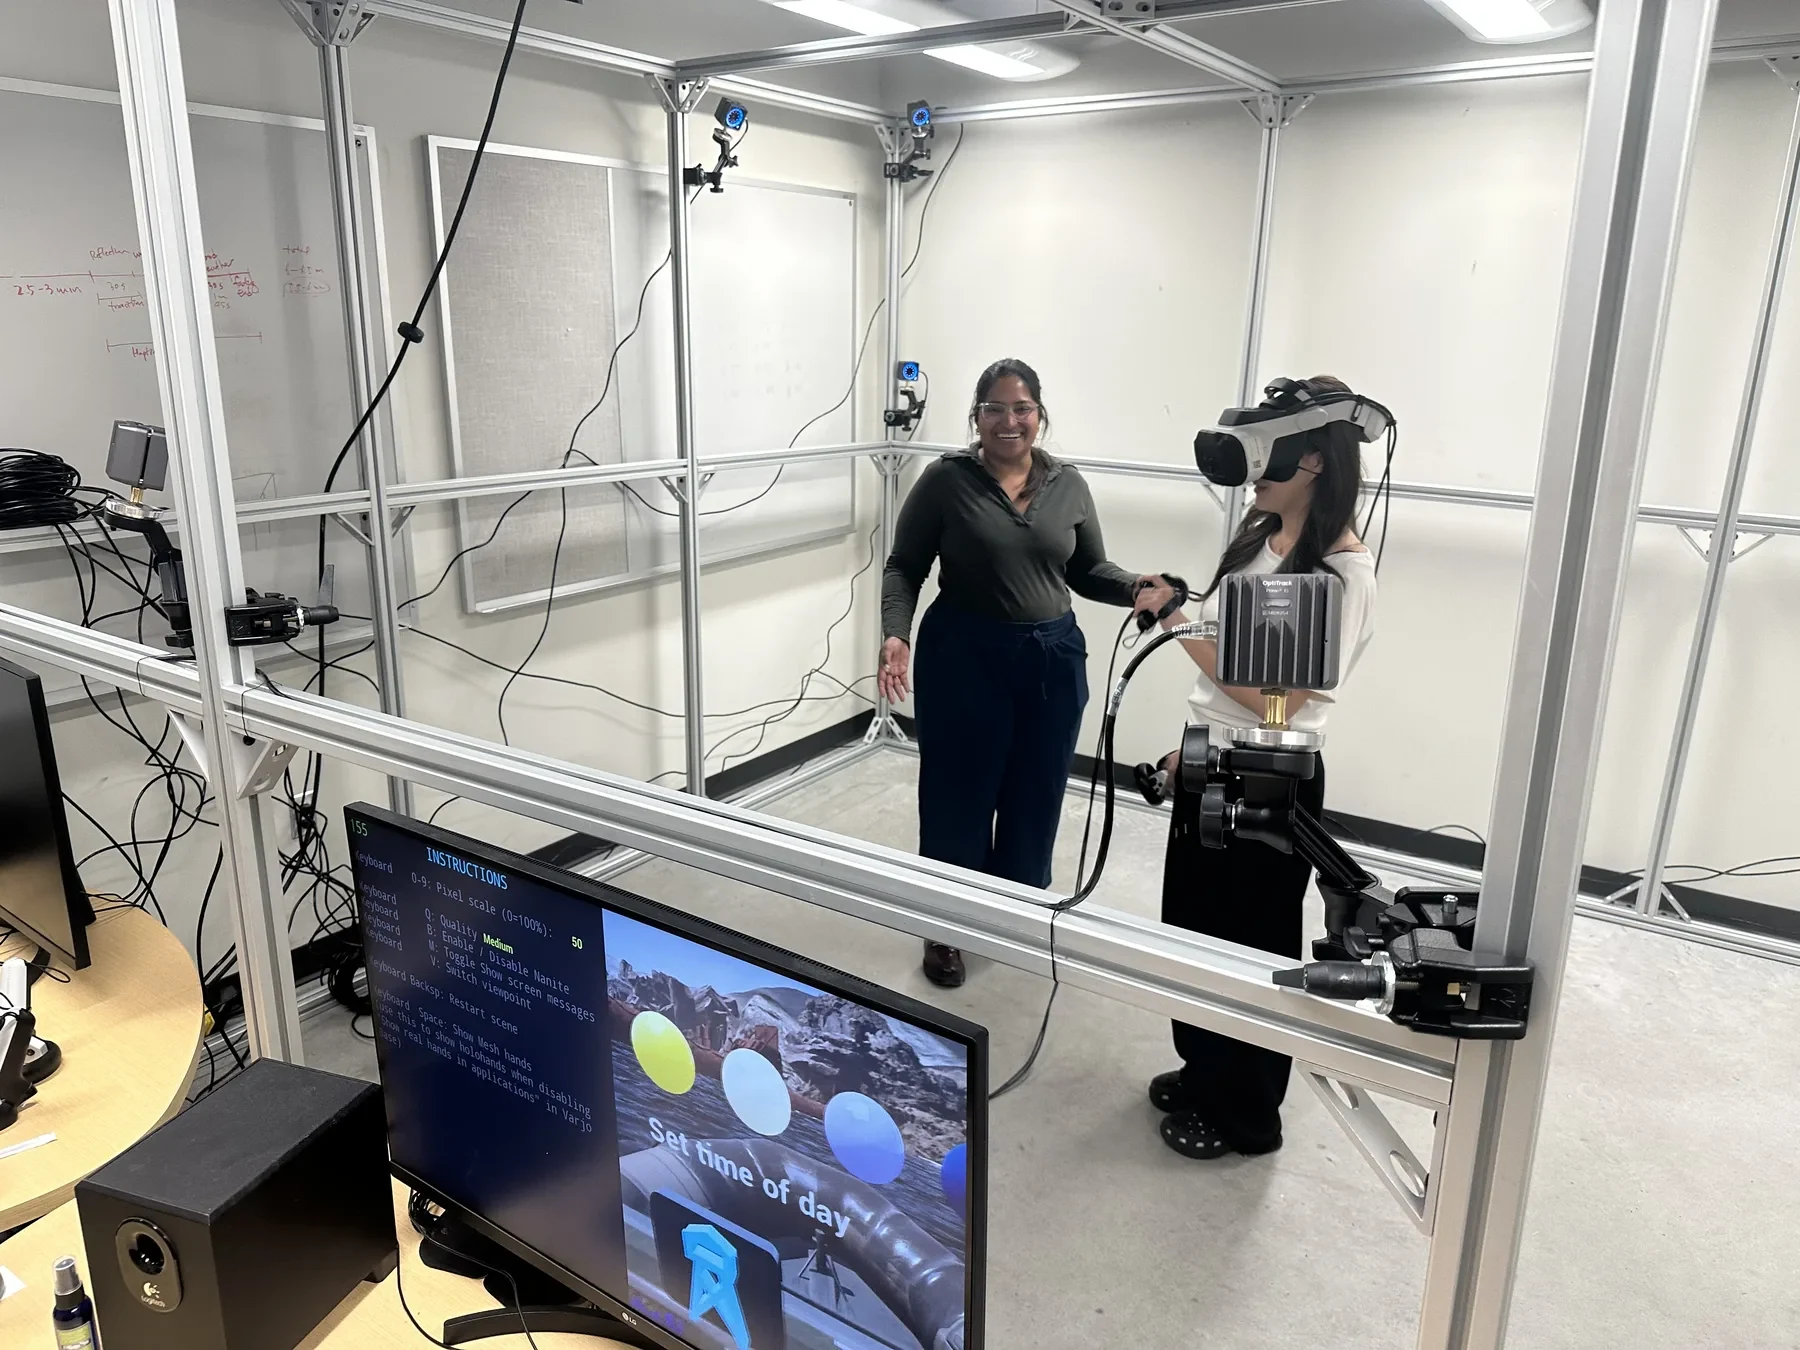
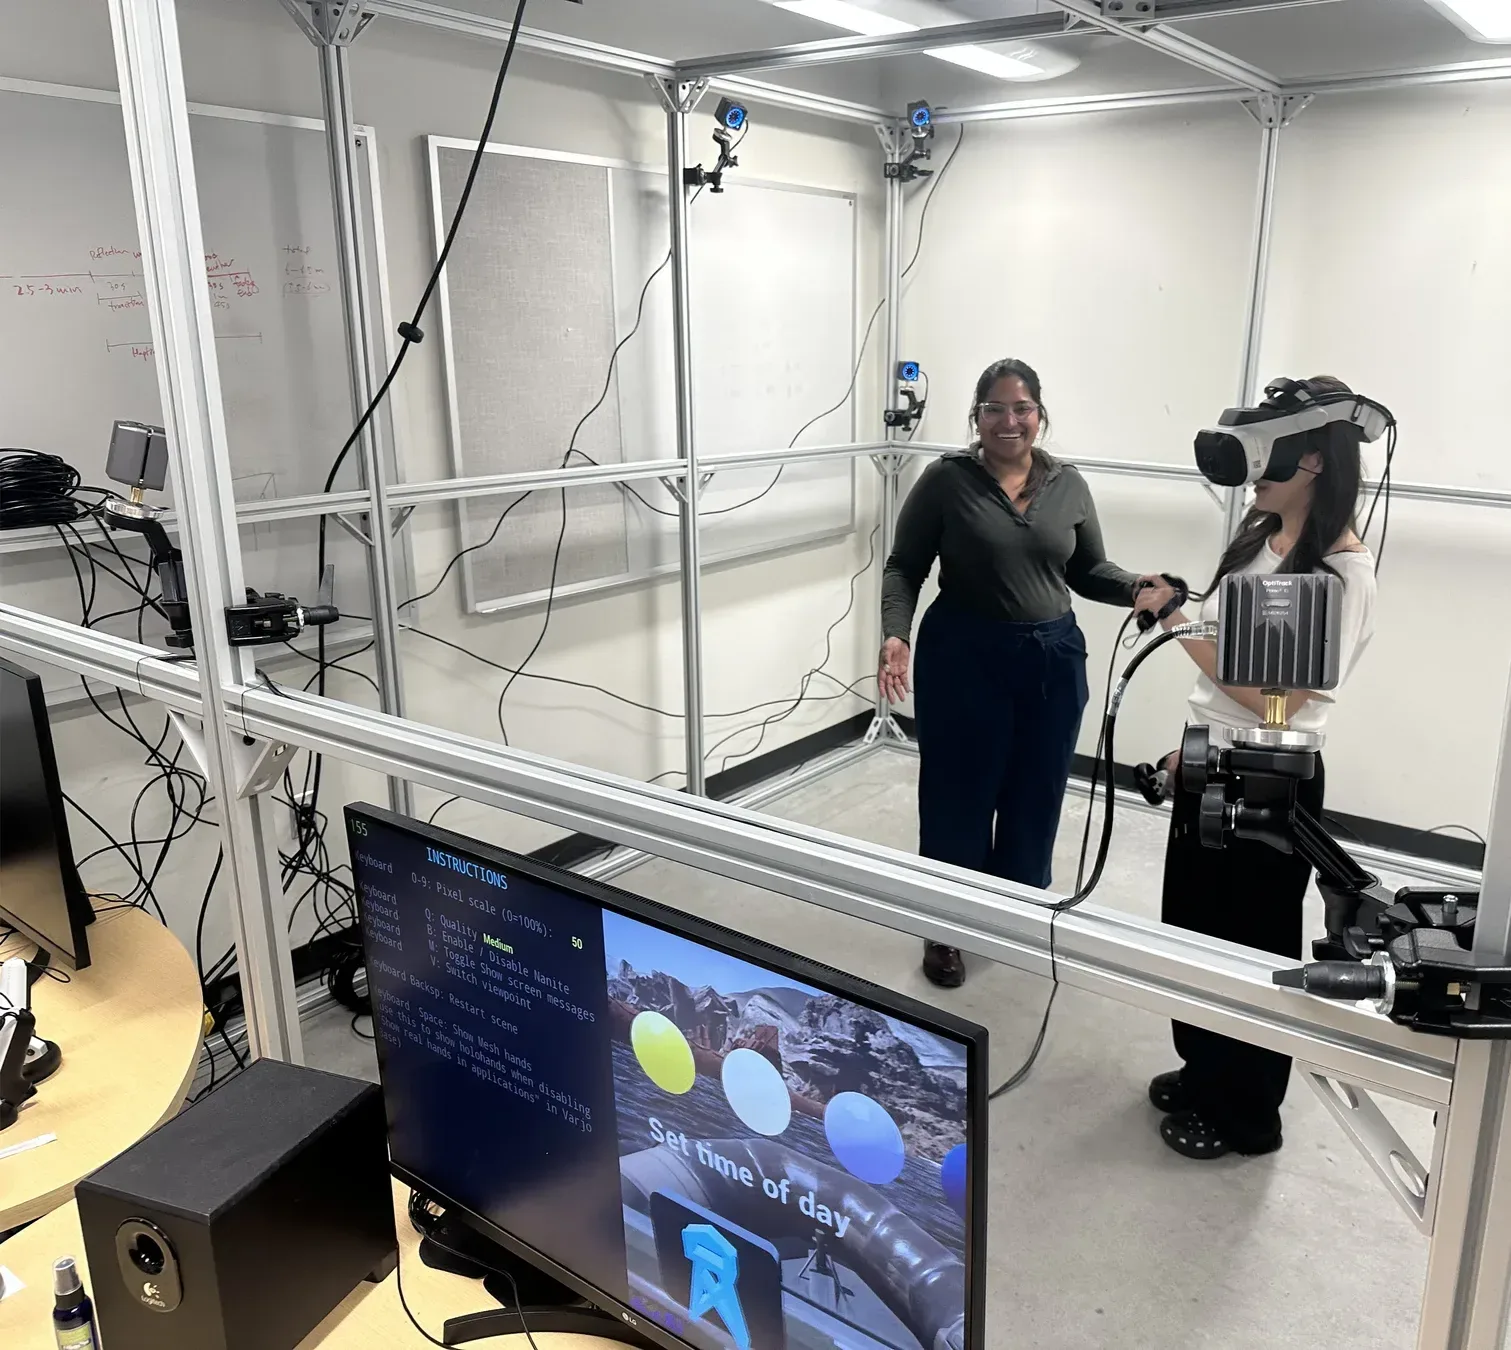
changed the hero images.

diff --git a/app/globals.css b/app/globals.css
@@ -158,7 +158,7 @@
   align-items:center;
 }
 .home-hero-split .home-hero-copy{
-  width:50%;
+  width:60%;
   max-width:none;
   padding-top:82px;
   padding-right:34px;
@@ -185,7 +185,7 @@
 .home-hero-rotator{
   position:absolute;
   z-index:1;
-  inset:0 0 0 47%;
+  inset:0 0 0 52%;
   overflow:hidden;
   background:#0a1a2a;
 }
@@ -206,14 +206,15 @@
   opacity:0;
   filter:saturate(.72) contrast(.92) brightness(.76) blur(.25px);
   transform:scale(1.018);
-  animation:homeHeroFade 35s infinite ease-in-out;
+  animation:homeHeroFade 48s infinite ease-in-out;
   will-change:opacity,transform;
 }
 .home-hero-rotator .hero-slide-1{animation-delay:0s;object-position:58% 50%}
-.home-hero-rotator .hero-slide-2{animation-delay:7s;object-position:63% 50%}
-.home-hero-rotator .hero-slide-3{animation-delay:14s;object-position:50% 45%}
-.home-hero-rotator .hero-slide-4{animation-delay:21s;object-position:56% 50%}
-.home-hero-rotator .hero-slide-5{animation-delay:28s;object-position:56% 42%}
+.home-hero-rotator .hero-slide-2{animation-delay:8s;object-position:62% 50%}
+.home-hero-rotator .hero-slide-3{animation-delay:16s;object-position:48% 45%}
+.home-hero-rotator .hero-slide-4{animation-delay:24s;object-position:54% 48%}
+.home-hero-rotator .hero-slide-5{animation-delay:32s;object-position:57% 48%}
+.home-hero-rotator .hero-slide-6{animation-delay:40s;object-position:56% 48%}
 .home-hero-blend{
   position:absolute;
   z-index:2;
@@ -222,19 +223,20 @@
   background:
     linear-gradient(90deg,
       #071525 0%,
-      #071525 37%,
-      rgba(7,21,37,.97) 42%,
-      rgba(7,21,37,.78) 50%,
-      rgba(7,21,37,.40) 59%,
-      rgba(7,21,37,.15) 72%,
+      #071525 47%,
+      rgba(7,21,37,.995) 53%,
+      rgba(7,21,37,.94) 59%,
+      rgba(7,21,37,.72) 66%,
+      rgba(7,21,37,.38) 75%,
+      rgba(7,21,37,.18) 88%,
       rgba(7,21,37,.18) 100%),
     linear-gradient(0deg,rgba(5,16,29,.42) 0%,rgba(5,16,29,.02) 48%,rgba(5,16,29,.10) 100%);
 }
 @keyframes homeHeroFade{
   0%{opacity:0;transform:scale(1.025)}
   3%{opacity:1}
-  17%{opacity:1}
-  20%{opacity:0;transform:scale(1.01)}
+  14%{opacity:1}
+  17%{opacity:0;transform:scale(1.01)}
   100%{opacity:0;transform:scale(1.01)}
 }
 @media (prefers-reduced-motion:reduce){
@@ -242,10 +244,10 @@
   .home-hero-rotator .hero-slide-1{opacity:1}
 }
 @media(max-width:1100px){
-  .home-hero-split .home-hero-copy{width:56%;padding-right:28px}
+  .home-hero-split .home-hero-copy{width:62%;padding-right:28px}
   .home-hero-split .home-hero-copy h1{font-size:clamp(48px,5.5vw,64px)}
-  .home-hero-rotator{left:50%}
-  .home-hero-blend{background:linear-gradient(90deg,#071525 0%,#071525 41%,rgba(7,21,37,.88) 51%,rgba(7,21,37,.28) 68%,rgba(7,21,37,.25) 100%)}
+  .home-hero-rotator{left:52%}
+  .home-hero-blend{background:linear-gradient(90deg,#071525 0%,#071525 48%,rgba(7,21,37,.98) 55%,rgba(7,21,37,.80) 64%,rgba(7,21,37,.36) 78%,rgba(7,21,37,.22) 100%)}
 }
 @media(max-width:820px){
   .home-hero.home-hero-split,.home-hero-split .home-hero-inner{min-height:650px}

diff --git a/app/page.tsx b/app/page.tsx
@@ -19,8 +19,9 @@ export default function Home(){
         <img className="hero-slide hero-slide-1" src="/assets/home/hero/01-research.webp" alt="" />
         <img className="hero-slide hero-slide-2" src="/assets/home/hero/02-collaboration.webp" alt="" />
         <img className="hero-slide hero-slide-3" src="/assets/home/hero/03-presentation.webp" alt="" />
-        <img className="hero-slide hero-slide-4" src="/assets/home/hero/04-lab.webp" alt="" />
-        <img className="hero-slide hero-slide-5" src="/assets/home/hero/05-student-research.webp" alt="" />
+        <img className="hero-slide hero-slide-4" src="/assets/home/hero/04-research-dissemination.webp" alt="" />
+        <img className="hero-slide hero-slide-5" src="/assets/home/hero/05-presentation-community.webp" alt="" />
+        <img className="hero-slide hero-slide-6" src="/assets/home/hero/06-lab.webp" alt="" />
       </div>
       <div className="home-hero-blend" aria-hidden="true" />
       <div className="wrap home-hero-inner">
